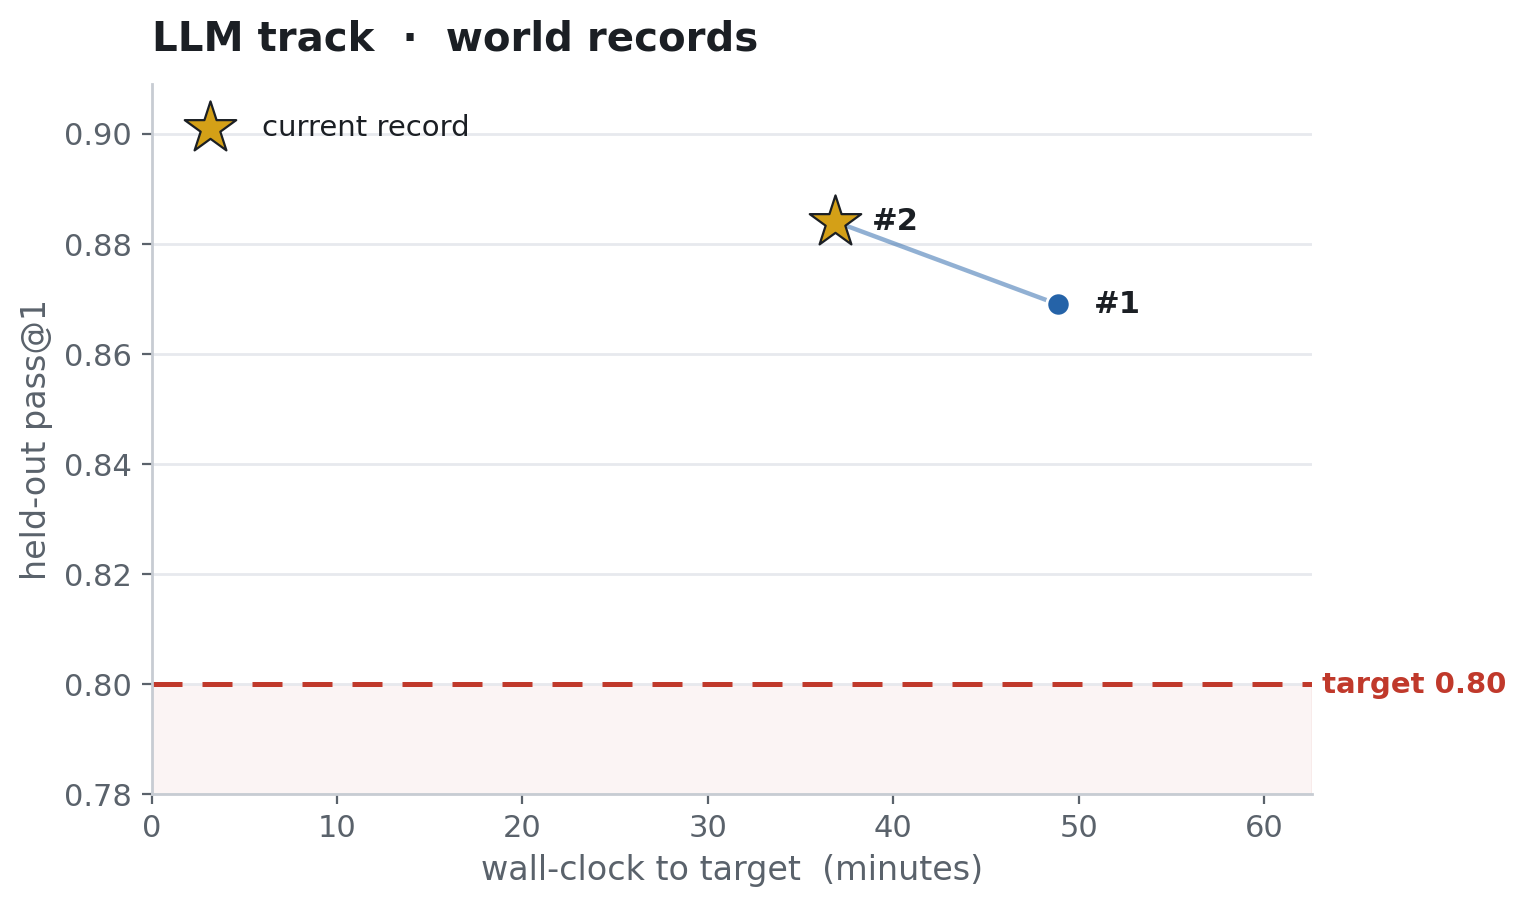
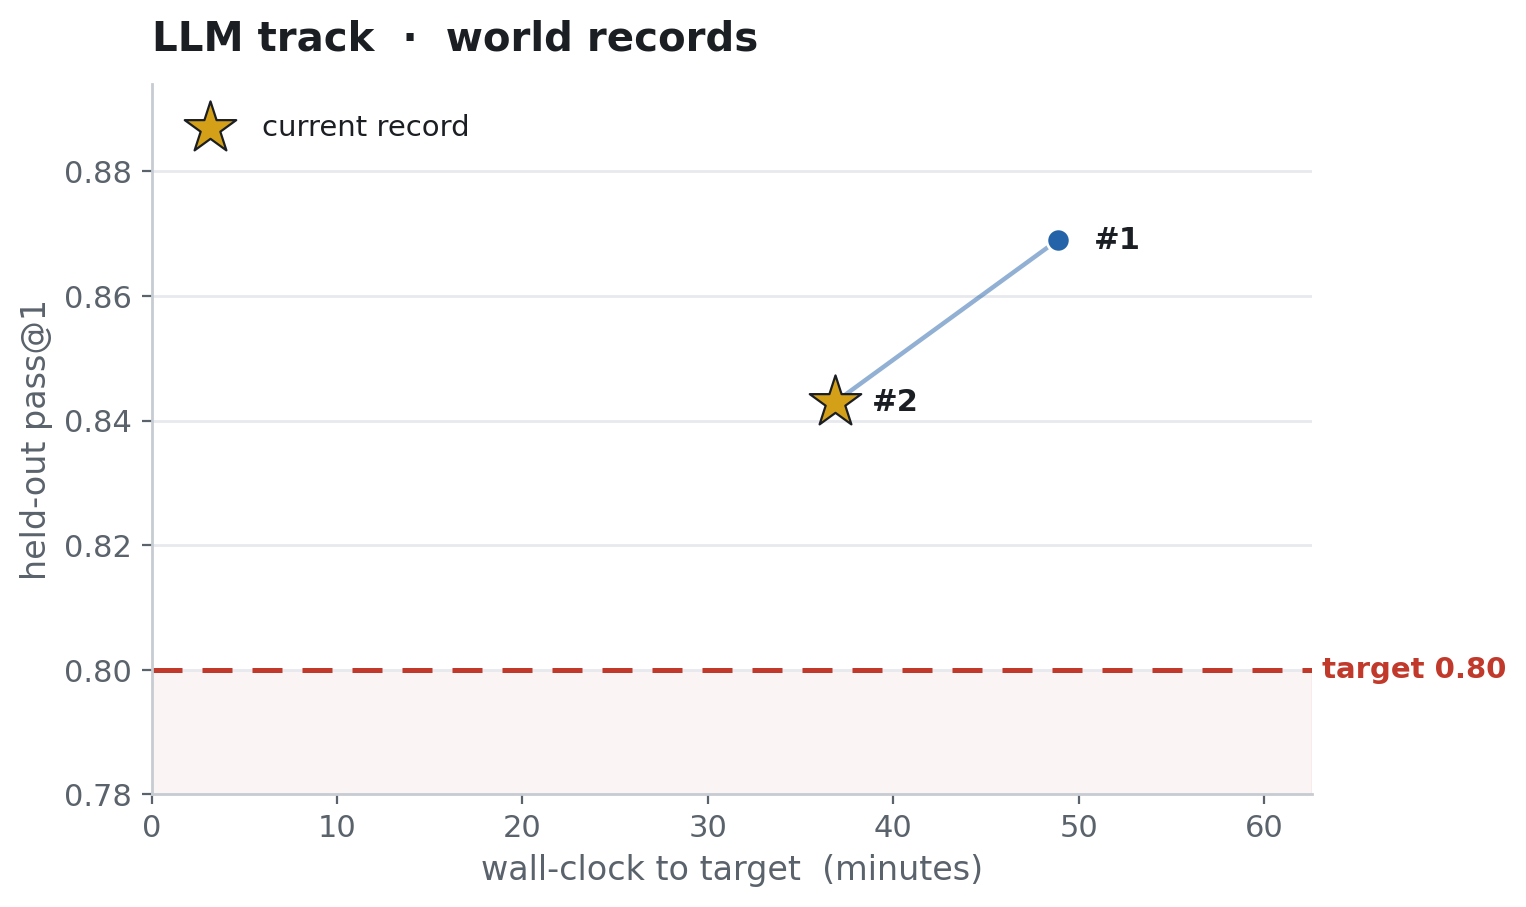
Report worst-of-two-seeds pass@1 on the leaderboard (not the submission seed)
The held-out pass@1 column showed each record's submission seed, which is
cherry-pickable (run two seeds, make the better one "the submission") and
invites cross-record accuracy comparisons the leaderboard doesn't control for.
Both seeds are already required to clear the bar, so report the worst (binding)
one instead — un-gameable and honest. Ranking stays wall-clock.

- make_record_report.py: update_leaderboard_row now takes min pass@1 over the
  submission eval + the verification rerun eval.
- LLM #2 (60-step) row: 0.884 (submission seed43) -> 0.843 (worst seed42);
  still clears (lower CI 0.81 > 0.80). #1 unchanged (its submission seed was
  already its worst).
- Both tracks' Verification rule documents the worst-seed reporting.
- Leaderboard figure redrawn from the corrected table.

Claude-Session: https://claude.ai/code/session_01TFJ1K2HwBTh24TPirvHzTL

diff --git a/make_record_report.py b/make_record_report.py
@@ -692,7 +692,13 @@ def update_leaderboard_row(record_dir: Path, track: str) -> None:
     seed = sorted(rec["logs"])[0]
     s = int(rec["logs"][seed]["final_time_s"])
     clock = fmt_clock(s)  # mm:ss (both tracks' headers)
-    ev = rec["evals"][sorted(rec["evals"])[0]]
+    # Report the WORST of the required seeds (submission run + verification rerun), not the
+    # submission seed alone. Both seeds must clear the bar, so the binding (lower) one is the
+    # honest, un-cherry-pickable quality signal — it stops a submitter from seed-shopping the
+    # headline. The *ranking* is still wall-clock (the submission run's clock, set above).
+    eval_paths = sorted(record_dir.glob("eval_seed*.json")) + \
+        sorted((record_dir / "verification").glob("eval_seed*.json"))
+    ev = min((json.loads(p.read_text()) for p in eval_paths), key=lambda e: e["pass_at_1"])
     acc = f"{ev['pass_at_1']:.3f} (CI [{ev['ci_low']:.2f}, {ev['ci_high']:.2f}])"
 
     name = record_dir.name                                     # e.g. 2026-06-29_01_grpo

diff --git a/README.md b/README.md
@@ -17,7 +17,7 @@ Fastest recipes to RL models to solve Sokoban to a held-out target on one node:
 | #   | Record time (mm:ss) | Description                        | Date       | Log                                                          | held-out pass@1         | Contributors |
 | --- | ------------------- | ---------------------------------- | ---------- | ------------------------------------------------------------ | ----------------------- | ------------ |
 | 1   | 48:53               | GRPO, LR 1.6e-6 annealed, 75 steps | 2026-06-29 | [llm/records/2026-06-29_01](llm/records/2026-06-29_01_grpo/) | 0.869 (CI [0.83, 0.90]) | @JeanKaddour |
-| 2   | 36:53               | GRPO, LR 1.6e-6 annealed, 60 steps | 2026-06-29 | [llm/records/2026-06-29_02](llm/records/2026-06-29_02_grpo_60step/) | 0.884 (CI [0.86, 0.91]) | @dexhunter   |
+| 2   | 36:53               | GRPO, LR 1.6e-6 annealed, 60 steps | 2026-06-29 | [llm/records/2026-06-29_02](llm/records/2026-06-29_02_grpo_60step/) | 0.843 (CI [0.81, 0.88]) | @dexhunter   |
 
 
 ### Rules
@@ -29,7 +29,7 @@ Fastest wall-clock run wins: one run on one 8xH100 node, from training step 1 th
 - **Fixed:** model, [train set](llm/datasets/sokoban_train.jsonl), eval set, reward function, hardware.
 - **Open:** RL algorithm, loss, schedules, engine, parallelism, domain-agnostic rewards, prompt.
 - **Not allowed:** Sokoban-specific hints, heuristics, or few-shot examples.
-- **Verification:** Rerun with a second seed; both runs must clear the target.
+- **Verification:** Rerun with a second seed; both runs must clear the target. The held-out pass@1 column reports the **worst** of the two seeds (the binding one), so it can't be seed-shopped; records are ranked by wall-clock, not pass@1.
 
 ### Running
 
@@ -59,7 +59,7 @@ Fastest wall-clock run wins: one run on a single **1×H100** node, from training
 - **Eval:** official [DeepMind Boxoban](https://github.com/google-deepmind/boxoban-levels) held-out splits (per-level greedy scoring); default `unfiltered/test`.
 - **Disjointness:** training draws only from the official `unfiltered/train` split; eval uses the disjoint `unfiltered/test`.
 - **Open:** policy architecture, RL algorithm, optimizer, schedules, implementation.
-- **Verification:** Rerun with a second seed; both runs must clear the target.
+- **Verification:** Rerun with a second seed; both runs must clear the target. The held-out pass@1 column reports the **worst** of the two seeds (the binding one), so it can't be seed-shopped; records are ranked by wall-clock, not pass@1.
 
 ### Running
 
